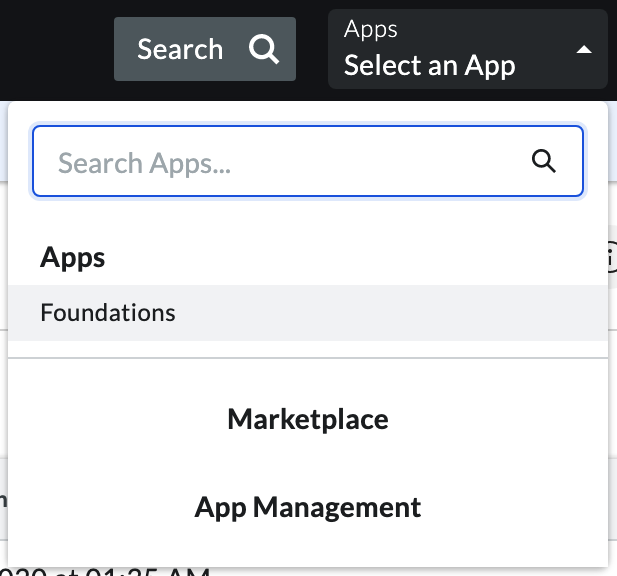
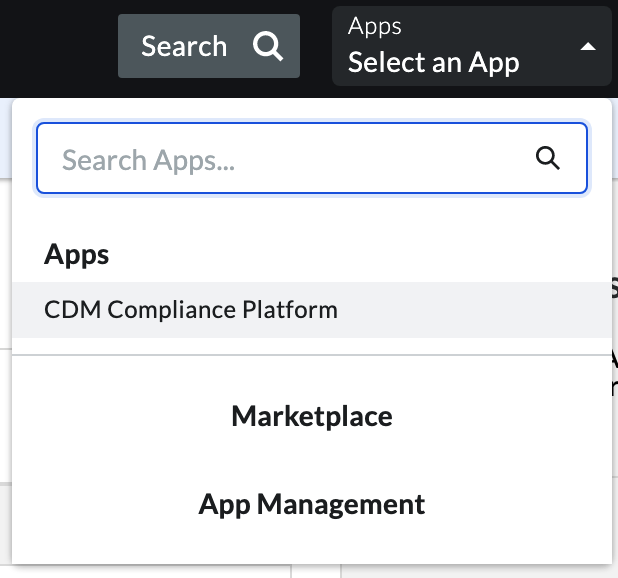
Updated support pages

diff --git a/src/Pages/SupportArticlePage/SupportArticlePage.js b/src/Pages/SupportArticlePage/SupportArticlePage.js
@@ -84,31 +84,43 @@ export class SupportArticlePage extends Component {
     )
   }
 
+
   getAnchorDocumentArticle = () => {
     return (
       <Fragment>
         <b><p>What is Anchoring a Document?</p></b>
-        <p>When a document is anchored with Foundations, the documents 'fingerprint' is taken and stored as an entry in a blockchain.</p>
+        <p>When a document is anchored, the documents 'fingerprint' is taken and stored as an entry in a blockchain.</p>
         <p>This entry in the blockchain can be used to check if the file in your posession is the same as the one that was anchored in the blockchain; even a single character or formatting change will be detected.</p>
         <p>Blockchain entries are permanent and cannot be modified, providing the perfect audit trail for any document.</p>
         <b><p>How do I Anchor a Document?</p></b>
-        <p>1) When using Procore, open the Foundations Embedded App:</p>
-        <img className="supportImg" src="/images/support/support-anchorDocument-1.png" alt="Procore Open Foundations App" />
-        <p>2) Navigate to the file you want to anchor.</p>
-        <p>3) Click the 'Anchor' button next to the file you want to anchor:</p>
-        <img className="supportImgWide" src="/images/support/support-anchorDocument-2.png" alt="Foundations App Anchor File" />
-        <p>4) The icon on the anchor button will spin.  After a few seconds, the button will say 'View Anchor'.  Clicking the button now will show you the blockchain entry for the file.</p>
-        <img className="supportImgSmall" src="/images/support/support-anchorDocument-3.png" alt="Foundations App View Anchor" />
+        <p>1) When using Procore, open the CDM Compliance Embedded App:</p>
+        <img className="supportImg" src="/images/support/support-anchorDocument-1.png" alt="Procore Open CDM Compliance App" />
+        <p>2) Navigate to the stage you are currently working on, and find the file field that you want to upload to.  The field will be red if no documents have been uploaded, or green if there is a document already anchored into that field.</p>
+        <p>3) Click the 'Upload' tab on the file field:</p>
+        <img className="supportImgWide" src="/images/support/support-anchorDocument-2.png" alt="CDM Compliance Platform Anchor File" />
+        <p>4) Click the 'Select file' button to open the file picker:</p>
+        <img className="supportImgWide" src="/images/support/support-anchorDocument-3.png" alt="Procore File Picker" />
+        <p>5) Navigate to the file you wish to add to the file field</p>
+        <p>6) Click the 'Select file' button next to the file you wish to add:</p>
+        <img className="supportImgWide" src="/images/support/support-anchorDocument-4.png" alt="Procore File Picker Select File" />
+        <p>6) You will now see that the file selected will be shown on the upload page.  To upload the file, click the 'Upload file' button:</p>
+        <img className="supportImgWide" src="/images/support/support-anchorDocument-5.png" alt="CDM Compliance Platform file selected" />
+        <p>8) A spinning icon will appear to show that the file is anchoring.  After a few seconds, the page will reload and show a yellow box.  This means that the anchor is still processing but has been received.</p>
+        <img className="supportImgWide" src="/images/support/support-anchorDocument-6.png" alt="CDM Compliance Platform anchor processing" />
+        <img className="supportImgWide" src="/images/support/support-anchorDocument-7.png" alt="CDM Compliance Platform anchor in progress" />
+        <p>9) Refreshing the page after a few minutes will show the box as green and the proof link will be available for the file.</p>
+        <img className="supportImgWide" src="/images/support/support-anchorDocument-8.png" alt="CDM Compliance Platform anchor complete" />
       </Fragment>
     )
   }
+
 
   getSignDocumentArticle = () => {
     return (
       <Fragment>
         <b><p>What is Signing a Document?</p></b>
-        <p>Once a document is anchored with Foundations, the document can be 'signed' digitally.  This signature is added to a blockchain.</p>
-        <p>The signature on the blockchain does not reveal who the signer is, that information is only available within Foundations.  The signature identifies the exact device that signed the document, creating a secure and verifiable audit trail of signatures.</p>
+        <p>Once a document is anchored, the document can be 'signed' digitally.  This signature is added to a blockchain.</p>
+        <p>The signature on the blockchain does not reveal who the signer is, that information is only available within the CDM Compliance Platform.  The signature identifies the exact device that signed the document, creating a secure and verifiable audit trail of signatures.</p>
         <p>To sign a document, you will need to have installed the Foundations mobile app as well as the Foundations app within Procore.</p>
         <b><p>Where can I get the Mobile App?</p></b>
         <p>Click the button below that matches your devices operating system</p>
@@ -122,16 +134,27 @@ export class SupportArticlePage extends Component {
         </a>
 
         <b><p>How do I Sign a Document?</p></b>
-        <p>1) When using Procore, open the Foundations Embedded App:</p>
-        <img className="supportImg" src="/images/support/support-signDocument-1.png" alt="Procore Open Foundations App" />
-        <p>2) Navigate to the file you want to sign.</p>
-        <p>3) Click the 'Sign' button next to the file you want to sign:</p>
-        <img className="supportImgWide" src="/images/support/support-signDocument-2.png" alt="Foundations App Sign File" />
-        <p>4) The icon on the sign button will spin.  After a few seconds, the button will say 'Sign' again.  You should soon receive a Foundations notification on your mobile device.</p>
+        <p>1) When using Procore, open the CDM Compliance Embedded App:</p>
+        <img className="supportImg" src="/images/support/support-signDocument-1.png" alt="Procore Open CDM Compliance App" />
+        <p>2) Navigate to the stage and file field you want to sign.</p>
+        <p>3) Click the 'Self Sign Document' button on the current version you want to sign:</p>
+        <img className="supportImgWide" src="/images/support/support-signDocument-2.png" alt="CDM Compliance Platform Self Sign File" />
+        <p>4) After a few seconds, should soon receive a Foundations notification on your mobile device.</p>
         <p>5) Open the app and you will see the requests list.  Click on the request to see the request details.</p>
         <img className="supportImgSmall" src="/images/support/support-signDocument-3.png" alt="Foundations Mobile App Sign Notification" />
         <p>6) You can now see the details of the request and accept or reject the request</p>
         <img className="supportImgSmall" src="/images/support/support-signDocument-4.png" alt="Foundations Mobile App Sign Details" />
+      </Fragment>
+    )
+  }
+
+
+  getUnderstandingStagesArticle = () => {
+    return (
+      <Fragment>
+        <b><p>What are Project Stages?</p></b>
+        <p>Project stages organise a project into the 8 different phases of a projects lifecycle.  Starting with the inception (idea) of the project and going through to refurbishment and eventual deconstruction.</p>
+        <p>Each stage of a project can be seen in the menu on the left hand side of the screen.</p>
       </Fragment>
     )
   }
@@ -146,6 +169,9 @@ export class SupportArticlePage extends Component {
     if (id === 'signDocument') {
       return this.getSignDocumentArticle()
     }
+    if (id === 'understandingStages') {
+      return this.getUnderstandingStagesArticle()
+    }
     return <p>Article not found</p>
   }
 
@@ -158,7 +184,7 @@ export class SupportArticlePage extends Component {
     }
     console.log(content)
     */
-    console.log(this.props)
+    //console.log(this.props)
     var content = this.getContent(this.props.match.params.id)
 
     return (

diff --git a/src/Data/SupportArticles.js b/src/Data/SupportArticles.js
@@ -1,18 +1,23 @@
 export const SupportArticles = [
   {
-    id: 'downloadApp',
-    title: 'Download the Foundations Mobile App',
-    description: 'Learn how to install the Foundations mobile app onto your smartphone or tablet.'
+    id: 'understandingStages',
+    title: 'Project Stages',
+    description: 'Learn how stages can keep your team on track and compliant with the CDM2015 regulations.'
   },
   {
     id: 'anchorDocument',
     title: 'Anchor a Document',
-    description: 'Learn how to use Foundations to anchor a document and check the anchor exists.'
+    description: 'Learn how to use the CDM Compliance Platform to anchor a document and check the anchor exists.'
   },
   {
     id: 'signDocument',
     title: 'Sign a Document',
-    description: 'Learn how to use the Foundations Procore integration and mobile app to sign a document.'
+    description: 'Learn how to use the CDM Compliance Platform and mobile app to sign a document.'
+  },
+  {
+    id: 'downloadApp',
+    title: 'Download the Foundations Mobile App',
+    description: 'Learn how to install the signing mobile app onto your smartphone or tablet.'
   }
 ]
 

diff --git a/src/Data/Strings.js b/src/Data/Strings.js
@@ -73,7 +73,7 @@ export const MENU_SUPPORT = "Support"
 
 // Support Page
 export const SUPPORT_TITLE = "Procore Support"
-export const SUPPORT_PREAMBLE = "These articles are designed to get you started with Foundations.  If you need more help or want to chat to one of our team members, please use the chat function at the bottom right of your screen."
+export const SUPPORT_PREAMBLE = "These articles are designed to get you started with the CDM Compliance Platform on Procore.  If you need more help or want to chat to one of our team members, please use the chat function at the bottom right of your screen."
 export const SUPPORT_ARTICLES_TITLE = "Support Articles"
 export const READ_MORE = "Read more"
 

diff --git a/src/App.css b/src/App.css
@@ -451,3 +451,33 @@ p {
     transform: rotate(360deg);
   }
 }
+
+
+/* ==================================== */
+/* ======= Support Page Classes ======= */
+/* ==================================== */
+
+a.appIcon {
+  text-decoration: none;
+}
+
+img.appIcon {
+  width: 200px;
+  margin-right: 1em;
+  margin-top: 1em;
+}
+
+.supportImg {
+  max-width: 300px;
+  margin-top: 1em;
+}
+
+.supportImgWide {
+  max-width: 500px;
+  margin-top: 1em;
+}
+
+.supportImgSmall {
+  max-width: 200px;
+  margin-top: 1em;
+}

diff --git a/src/Pages/SupportArticlePage/SupportArticlePage.module.css b/src/Pages/SupportArticlePage/SupportArticlePage.module.css
@@ -21,12 +21,11 @@
 
 .content p {
   font-size: 18px;
-}
-
-.content p:last-of-type {
-  margin-bottom: 0;
+  margin-bottom: 1em;
 }
 
 .content img {
   border: 1px solid #aaa;
+  margin-bottom: 1em;
+  margin-top: 0;
 }
